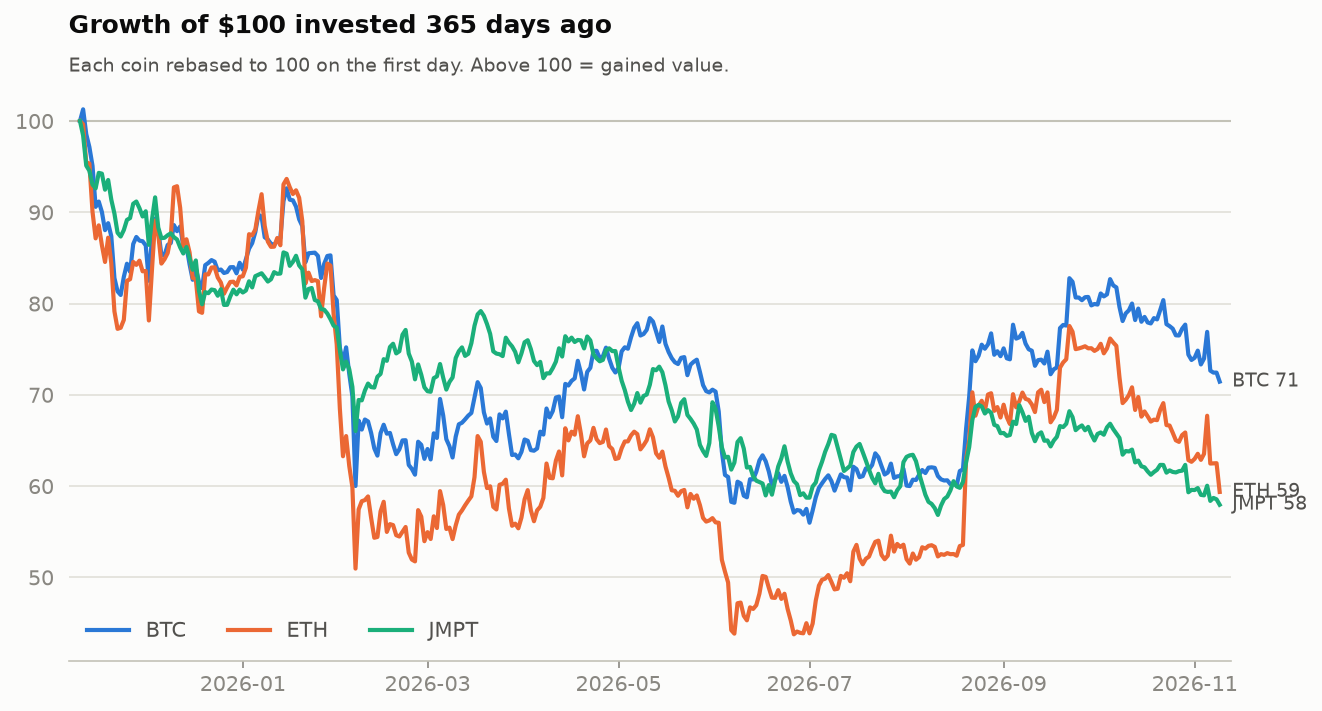
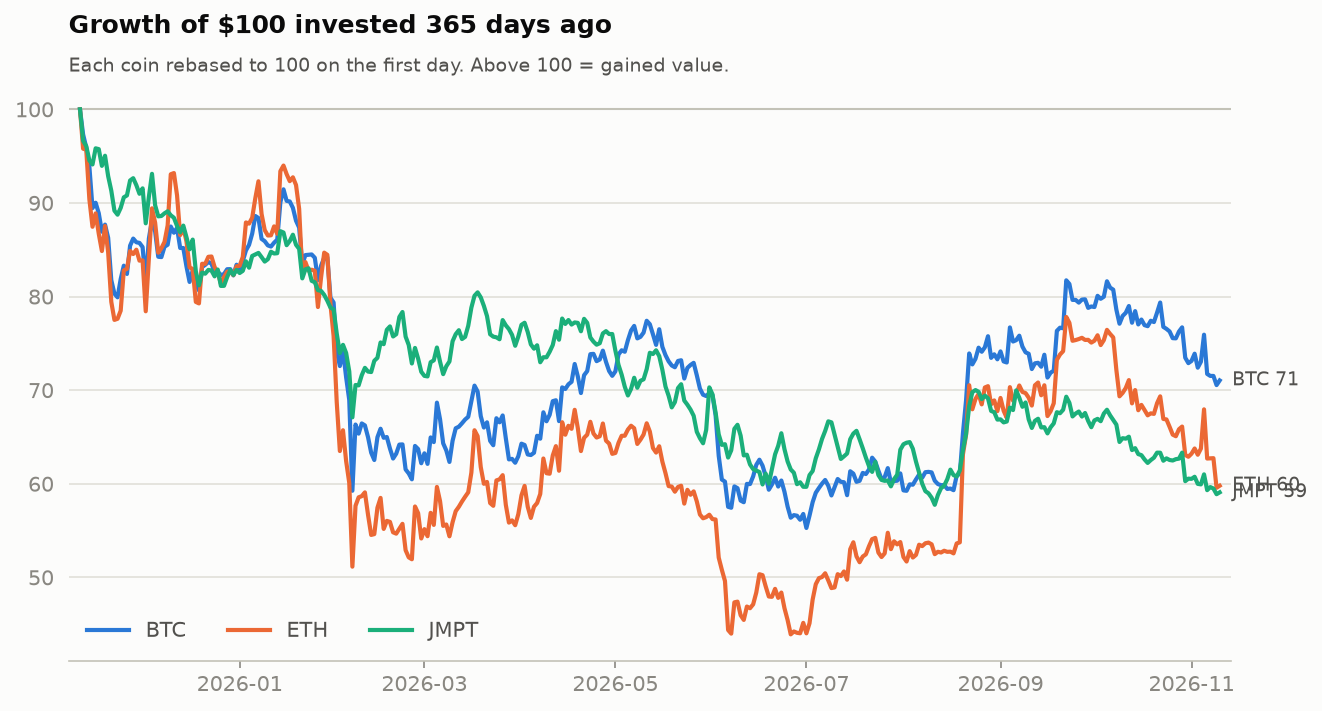
data: market update 2026-11-10

diff --git a/README.md b/README.md
@@ -9,13 +9,13 @@ The project compares two of the largest cryptocurrencies with a small-cap token:
 ## Latest stats
 
 <!-- STATS:START -->
-_Snapshot as of **2026-11-09 00:00 UTC**. Updated automatically every day._
+_Snapshot as of **2026-11-10 00:00 UTC**. Updated automatically every day._
 
 | Coin | Price | 1 day | 7 days | 30 days | 1 year | Volatility (30d) | Market cap |
 |:--|--:|--:|--:|--:|--:|--:|--:|
-| **BTC** Bitcoin | $74,740 | ▼ -1.4% | ▼ -4.5% | ▼ -9.5% | ▼ -26.9% | 36% | $1.50T |
-| **ETH** Ethereum | $2,124 | ▼ -5.0% | ▼ -6.6% | ▼ -14.5% | ▼ -37.5% | 50% | $259.60B |
-| **JMPT** JumpToken | $0.5037 | ▼ -1.0% | ▼ -3.1% | ▼ -9.2% | ▼ -42.3% | 24% | $7.43M |
+| **BTC** Bitcoin | $75,267 | ▲ +0.7% | ▼ -1.9% | ▼ -9.2% | ▼ -28.1% | 36% | $1.51T |
+| **ETH** Ethereum | $2,132 | ▲ +0.4% | ▼ -5.2% | ▼ -14.9% | ▼ -40.4% | 50% | $260.56B |
+| **JMPT** JumpToken | $0.5053 | ▲ +0.3% | ▼ -1.5% | ▼ -8.9% | ▼ -41.9% | 24% | $7.46M |
 <!-- STATS:END -->
 
 ## Charts
